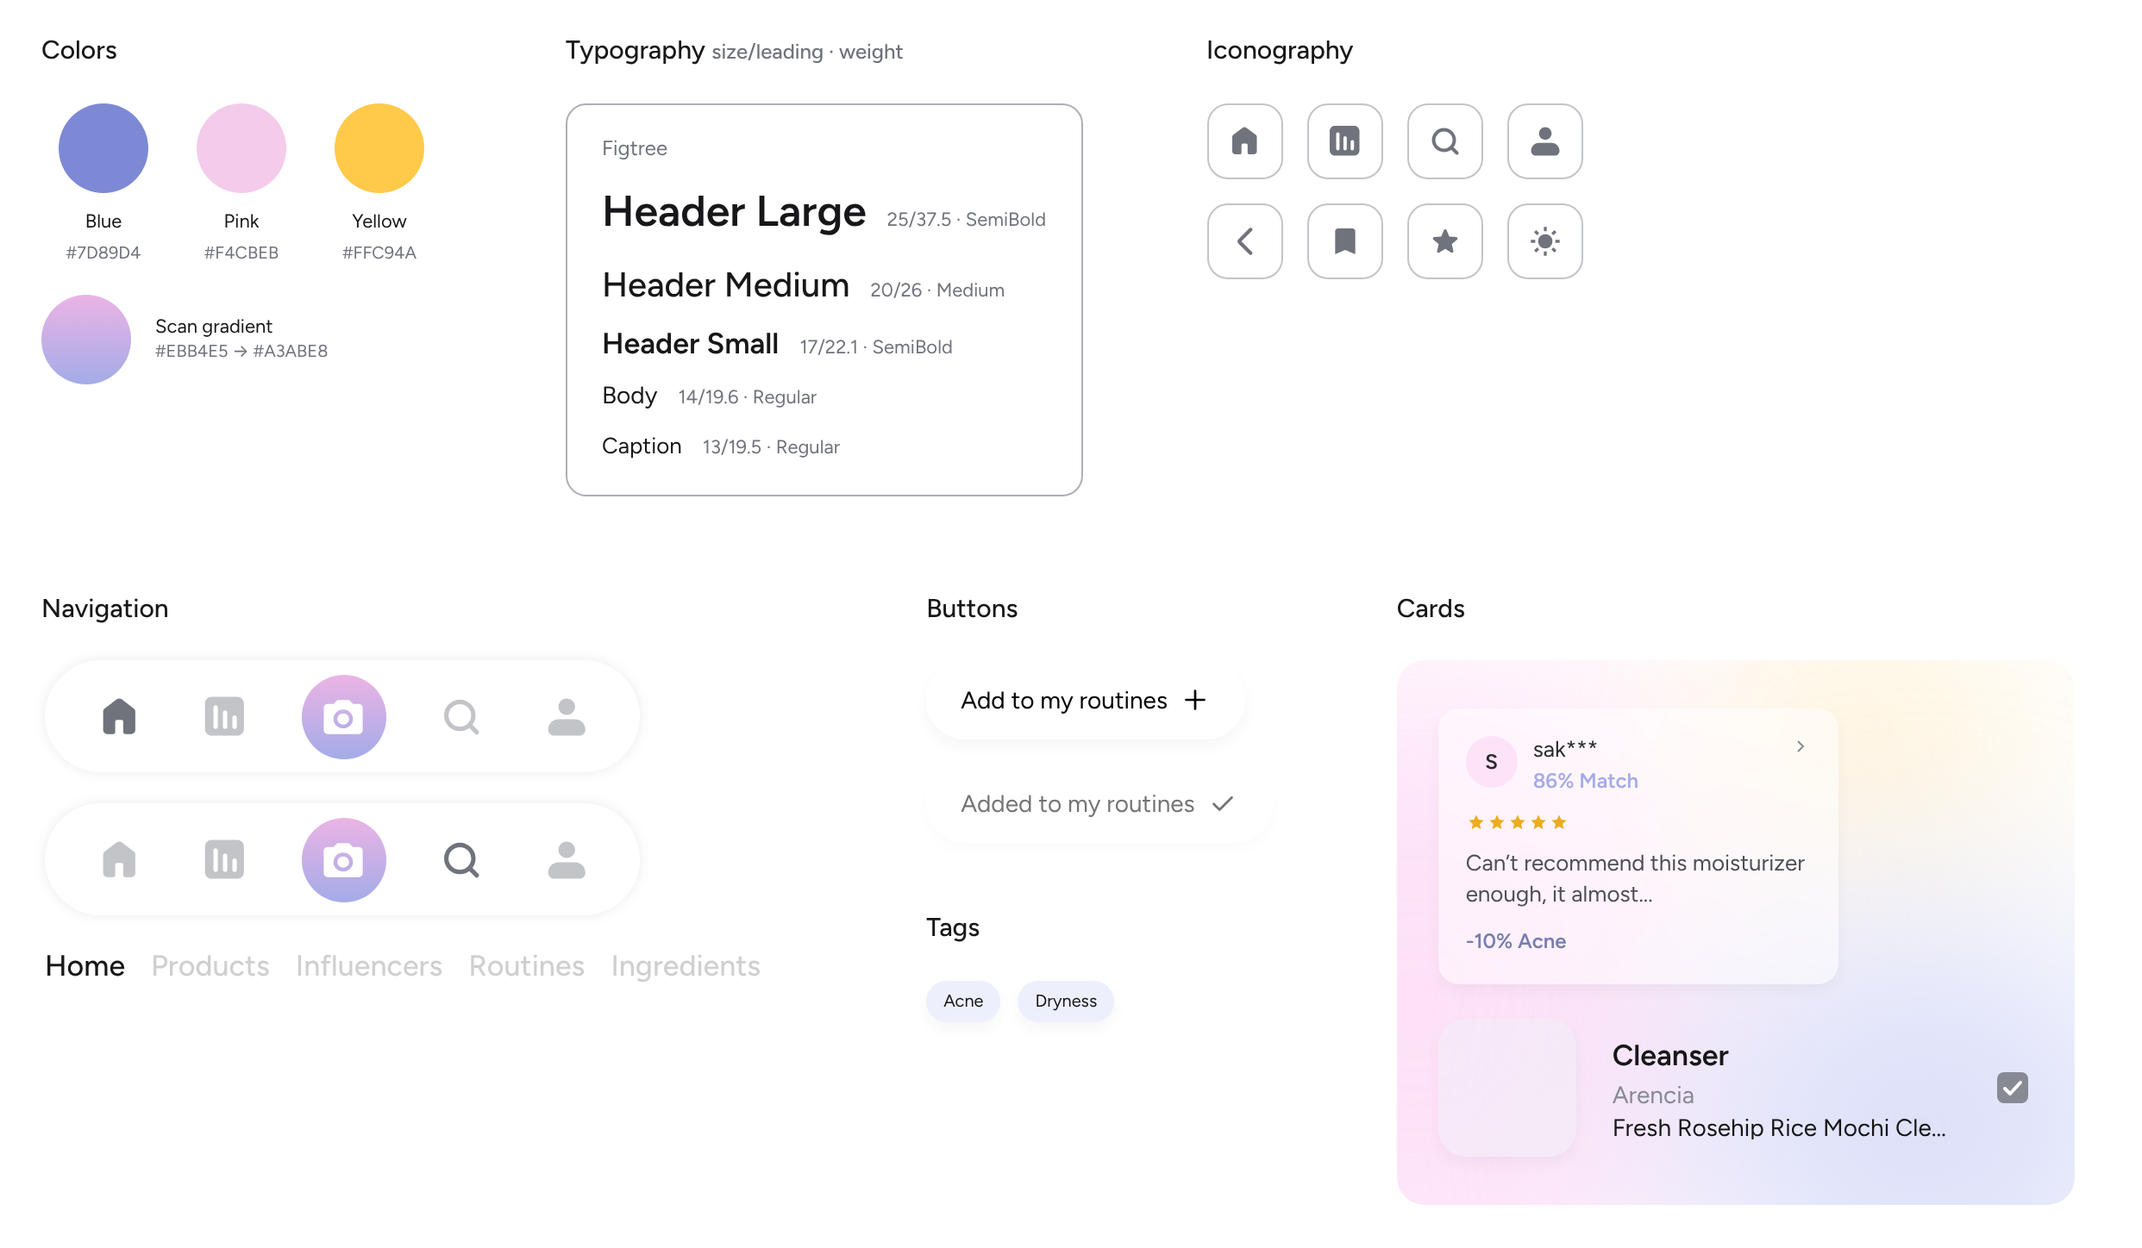
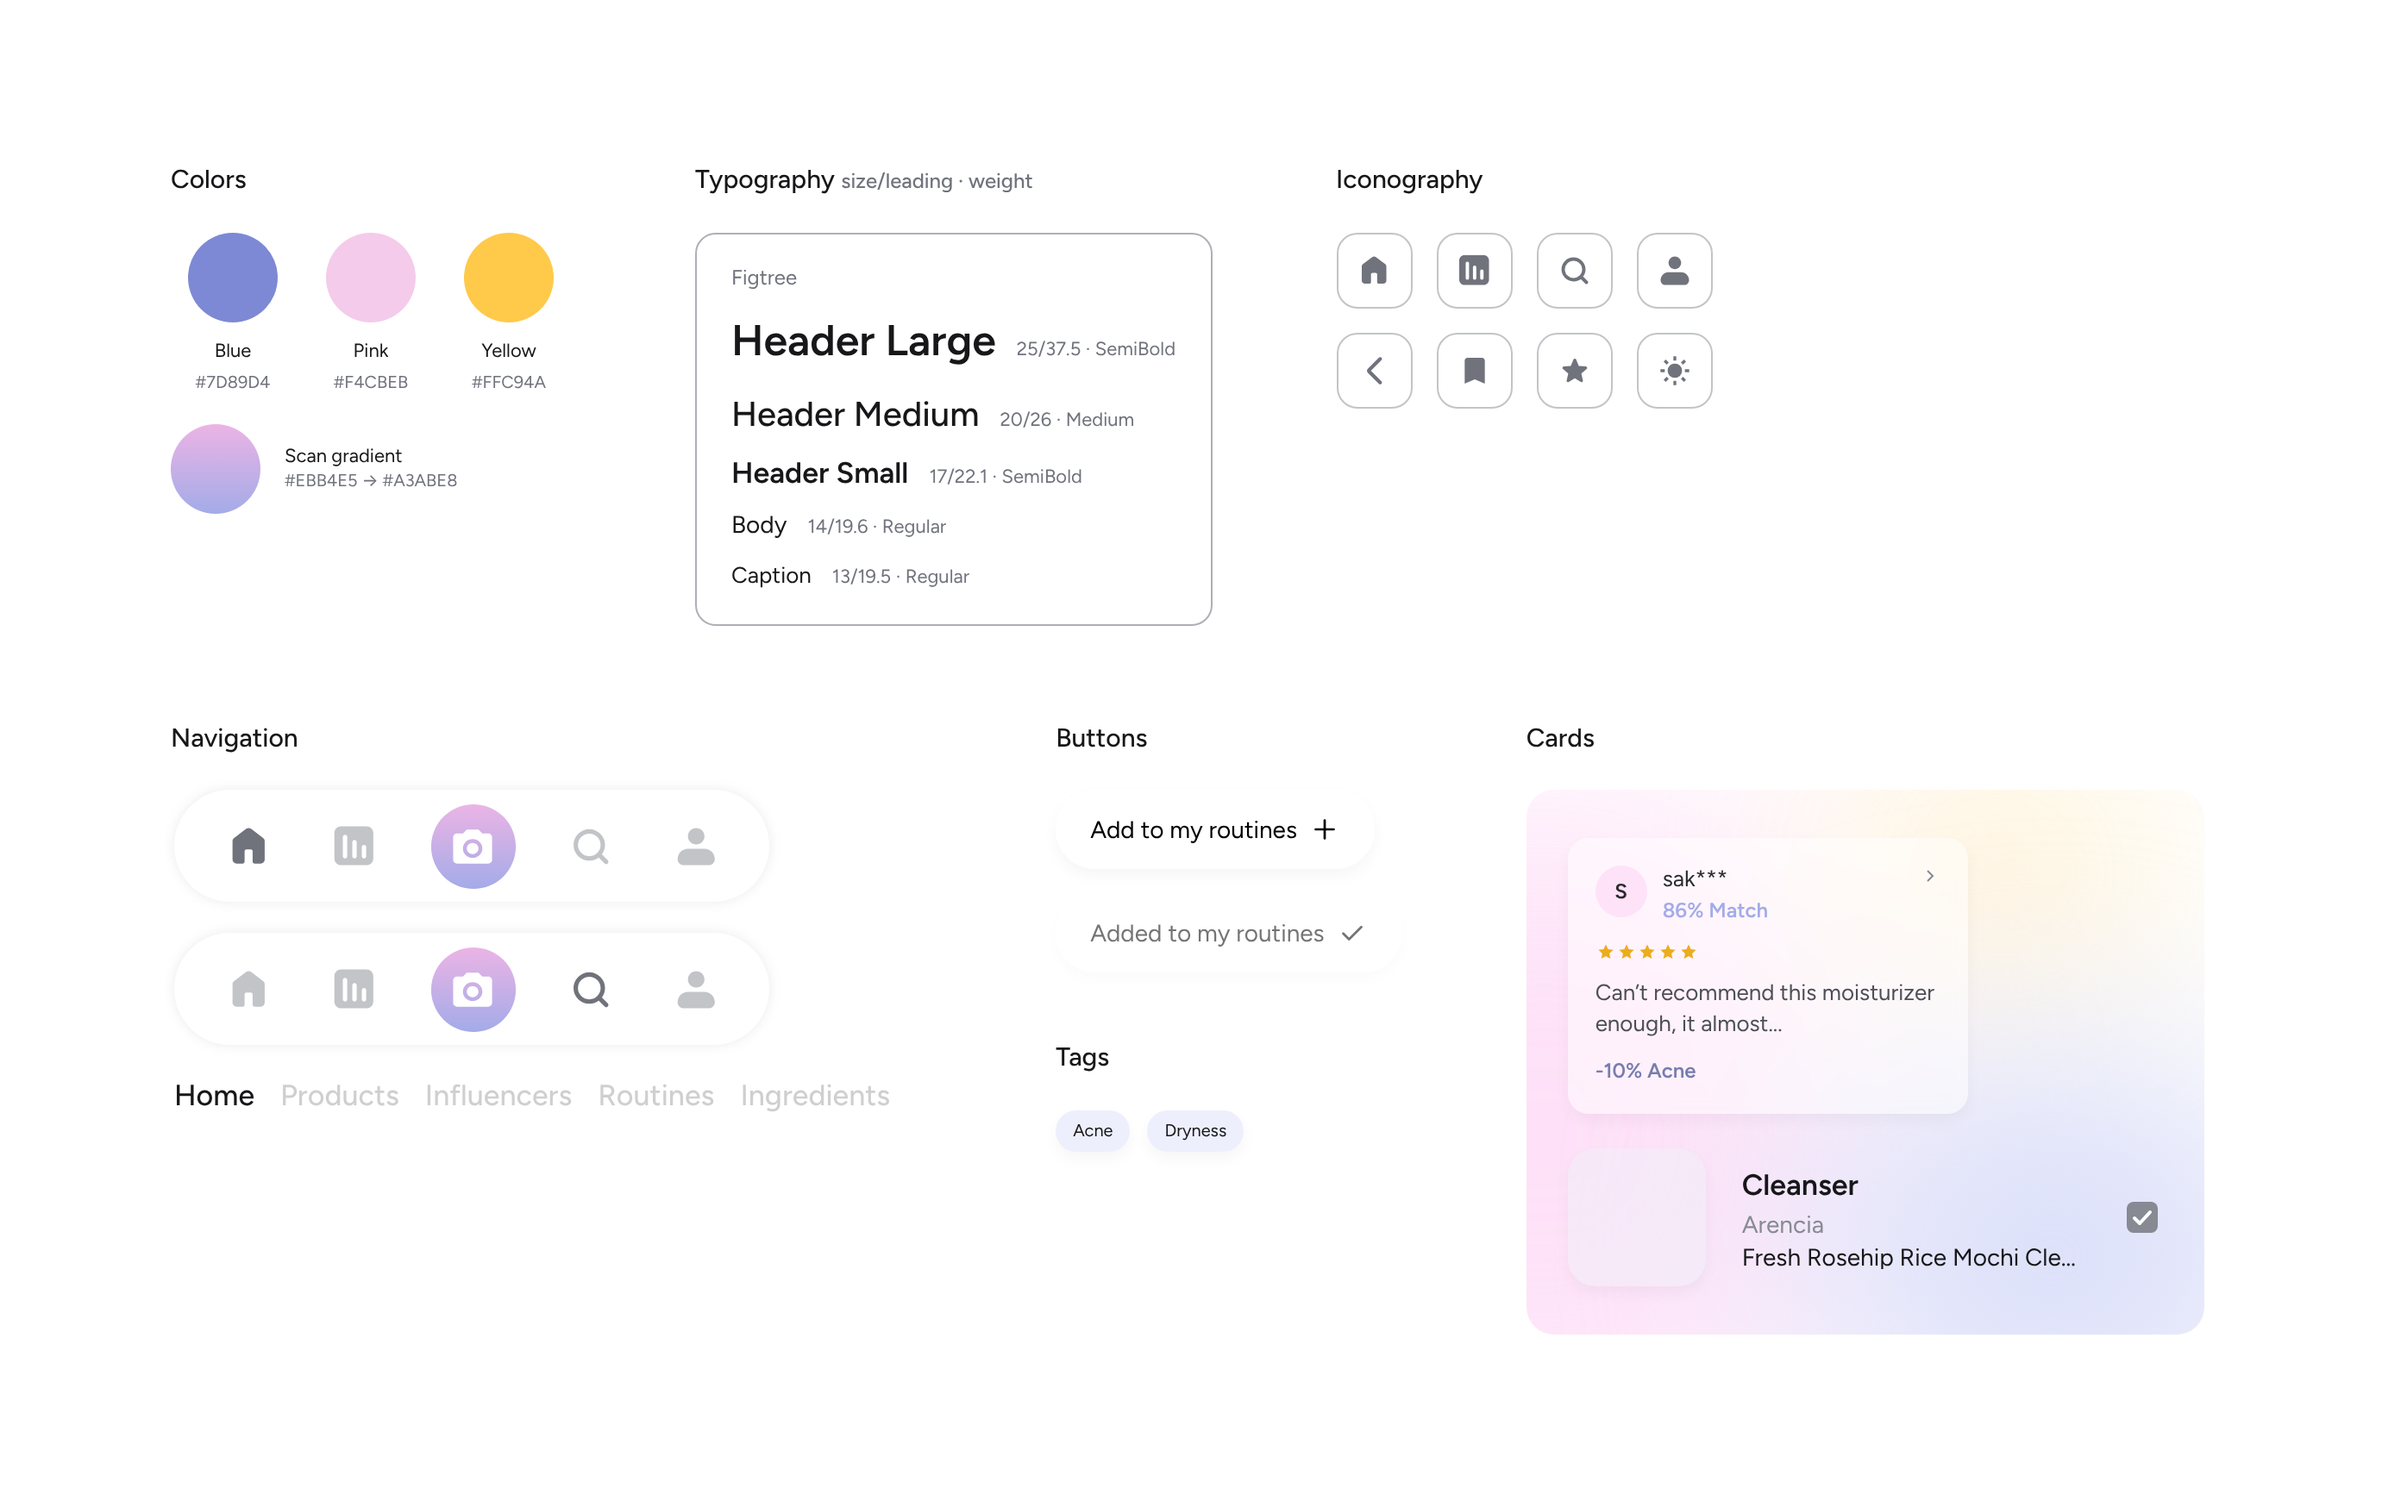
Skyn: more white space around the design system sheet
Claude-Session: https://claude.ai/code/session_015vF3fknx26ijuPFq6BGXjN

diff --git a/skyn-site/index.html b/skyn-site/index.html
@@ -452,7 +452,7 @@
               </div>
             </div>
             <div class="sheet-panel">
-              <img class="sheet-panel__img" src="images/style-guide.png?v=1" width="2484" height="1448" loading="lazy"
+              <img class="sheet-panel__img" src="images/style-guide.png?v=2" width="2784" height="1748" loading="lazy"
                 alt="skyn style guide: blue, pink and yellow colors with the scan gradient; Figtree type styles from Header Large to Caption; icons; the tab bar with home and search active; Add to my routines buttons; Acne and Dryness tags; and a glass review card and routine row over a pink, yellow and blue blurred background">
             </div>
           </div>
